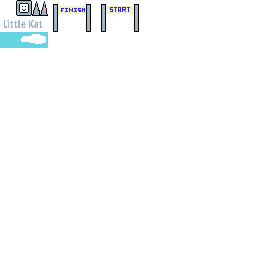
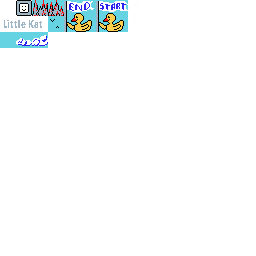
updating code and fix some bugs (WIP)

Changed region(s): [[0.125, 0.0, 0.5625, 0.125], [0.0625, 0.125, 0.1875, 0.1875]]

diff --git a/js/player.js b/js/player.js
@@ -1,5 +1,5 @@
 import { Sprite, keyPressed,gamepadPressed, SpriteSheet } from "./kontra.min.mjs";
-import { levelsManager } from "./levelData.js";
+import { levelsManager, TilesCategory } from "./levelData.js";
 import { zzfx} from './zzfx.js';
 
 const INITIAL_JUMP_FORCE = 3;
@@ -37,6 +37,7 @@ export class Player {
         y: y,
         width: 16,
         height: 16,
+        anchor: { x: 1, y: 0 },
         animations: imgSheet.animations,
       });
       this.sprite.playAnimation('walk');
@@ -64,7 +65,7 @@ export class Player {
 
   getNextTile(levelIndex) {
     const tileEngine = levelsManager.getLevel(levelIndex);
-    return tileEngine.tileAtLayer("ground", { x: this.sprite.x + this.sprite.width, y: this.sprite.y });
+    return tileEngine.tileAtLayer("ground", { x: this.sprite.x + this.sprite.width/2, y: this.sprite.y+ (this.sprite.height/2) });
   }
 
   // Using dt (delta time) in physics calculations because of colliding issues
@@ -88,7 +89,9 @@ export class Player {
       this.sprite.drotation = 0;
       this.sprite.rotation = 0;
       // Move the player when is grounded
-      this.horizontalMovement(dt);
+     
+      this.horizontalMovement(dt,levelIndex);
+      
     } else {
       this.sprite.dy += GRAVITY * dt;
     }
@@ -112,8 +115,13 @@ export class Player {
     this.sprite.render();
   }
 
-  horizontalMovement(dt) {
+  horizontalMovement(dt, levelIndex) {
+    if(this.getNextTile(levelIndex)===TilesCategory.GROUND){
+      this.sprite.dx = 0;
+      return;
+    }
     this.sprite.dx += 1 * dt;
     if (this.sprite.dx >= MAX_X_VELOCITY) this.sprite.dx = MAX_X_VELOCITY;
+
   }
 }

diff --git a/js/game.js b/js/game.js
@@ -159,6 +159,7 @@ let loop = GameLoop({  // create the main game loop
                 game.state = states.playing;
                 game.player.setPosition(75, 100);
                 game.player.isJumping = true;
+                game.text.text = 'Game Over\nPress Space to Start Again';
                 level.sx = 0;
             }
         }
@@ -175,13 +176,14 @@ let loop = GameLoop({  // create the main game loop
             game.death();
         } else {
             if (game.state === states.playing) {
+                
                 game.player.update(dt, game.currentLevel); // update the player
-                if (game.player.getCurrentTile(game.currentLevel) == TilesCategory.SPIKES) {
+                if (game.player.getCurrentTile(game.currentLevel) == TilesCategory.SPIKES || game.player.getCurrentTile(game.currentLevel) == TilesCategory.SPIKES2) {
                     game.death();
                     return;
                 }
 
-                if (game.player.getNextTile(game.currentLevel) == TilesCategory.SPIKES) {
+                if (game.player.getNextTile(game.currentLevel) == TilesCategory.SPIKES || game.player.getNextTile(game.currentLevel) == TilesCategory.SPIKES2) {
                     game.death();
                     return;
                 }

diff --git a/js/levelData.js b/js/levelData.js
@@ -3,7 +3,8 @@ import { TileEngineClass } from "./kontra.min.mjs";
 export const TilesCategory={
     EMPTY:1,
     GROUND: 2,
-    SPIKES: 3
+    SPIKES: 3,
+    SPIKES2: 4
 };
 
 
